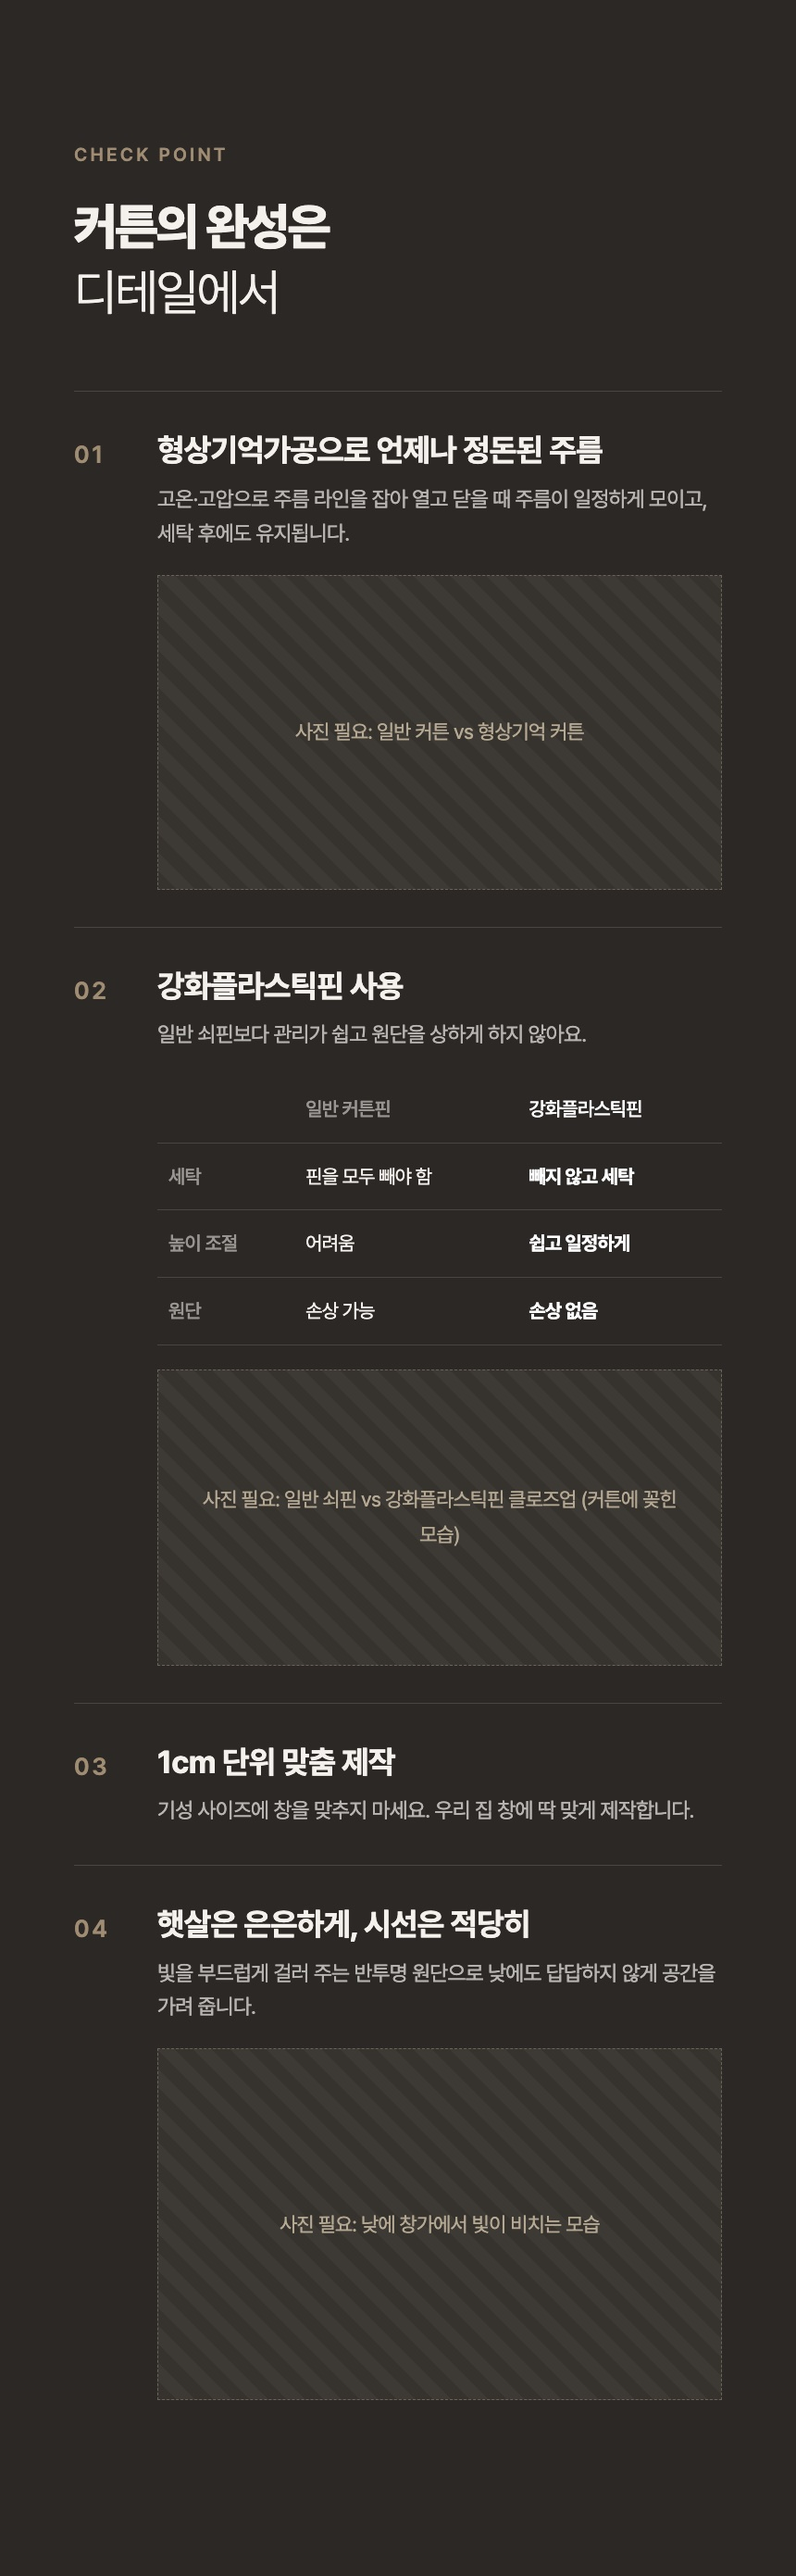
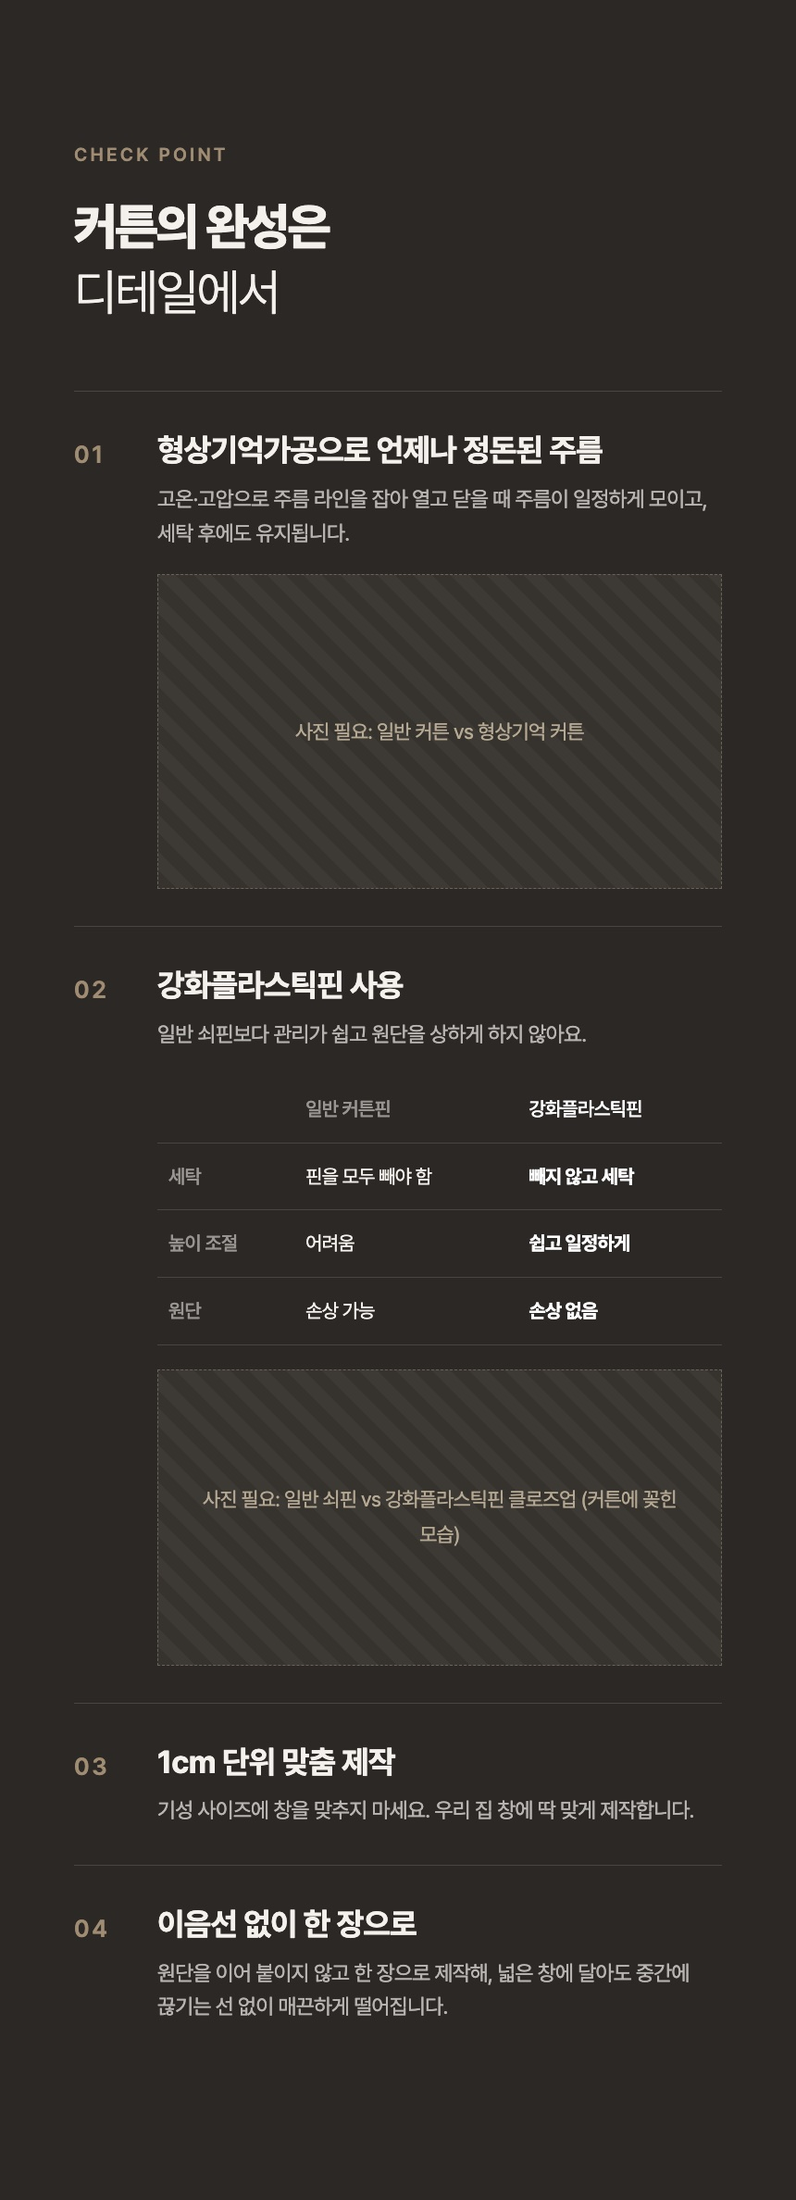
MOEL 네이버: 06 공통특징 04 → 이음선 없이 한 장으로

diff --git a/moel-sheer-curtain/naver/index.html b/moel-sheer-curtain/naver/index.html
@@ -588,9 +588,8 @@ const RAILS = [
       <p>기성 사이즈에 창을 맞추지 마세요. 우리 집 창에 딱 맞게 제작합니다.</p>
     </div></div>
     <div class="check"><div class="n">04</div><div>
-      <h4>햇살은 은은하게, 시선은 적당히</h4>
-      <p>빛을 부드럽게 걸러 주는 반투명 원단으로 낮에도 답답하지 않게 공간을 가려 줍니다.</p>
-      <div class="ph" style="height:380px;">사진 필요: 낮에 창가에서 빛이 비치는 모습</div>
+      <h4>이음선 없이 한 장으로</h4>
+      <p>원단을 이어 붙이지 않고 한 장으로 제작해, 넓은 창에 달아도 중간에 끊기는 선 없이 매끈하게 떨어집니다.</p>
     </div></div>
   </div>
 </section>
